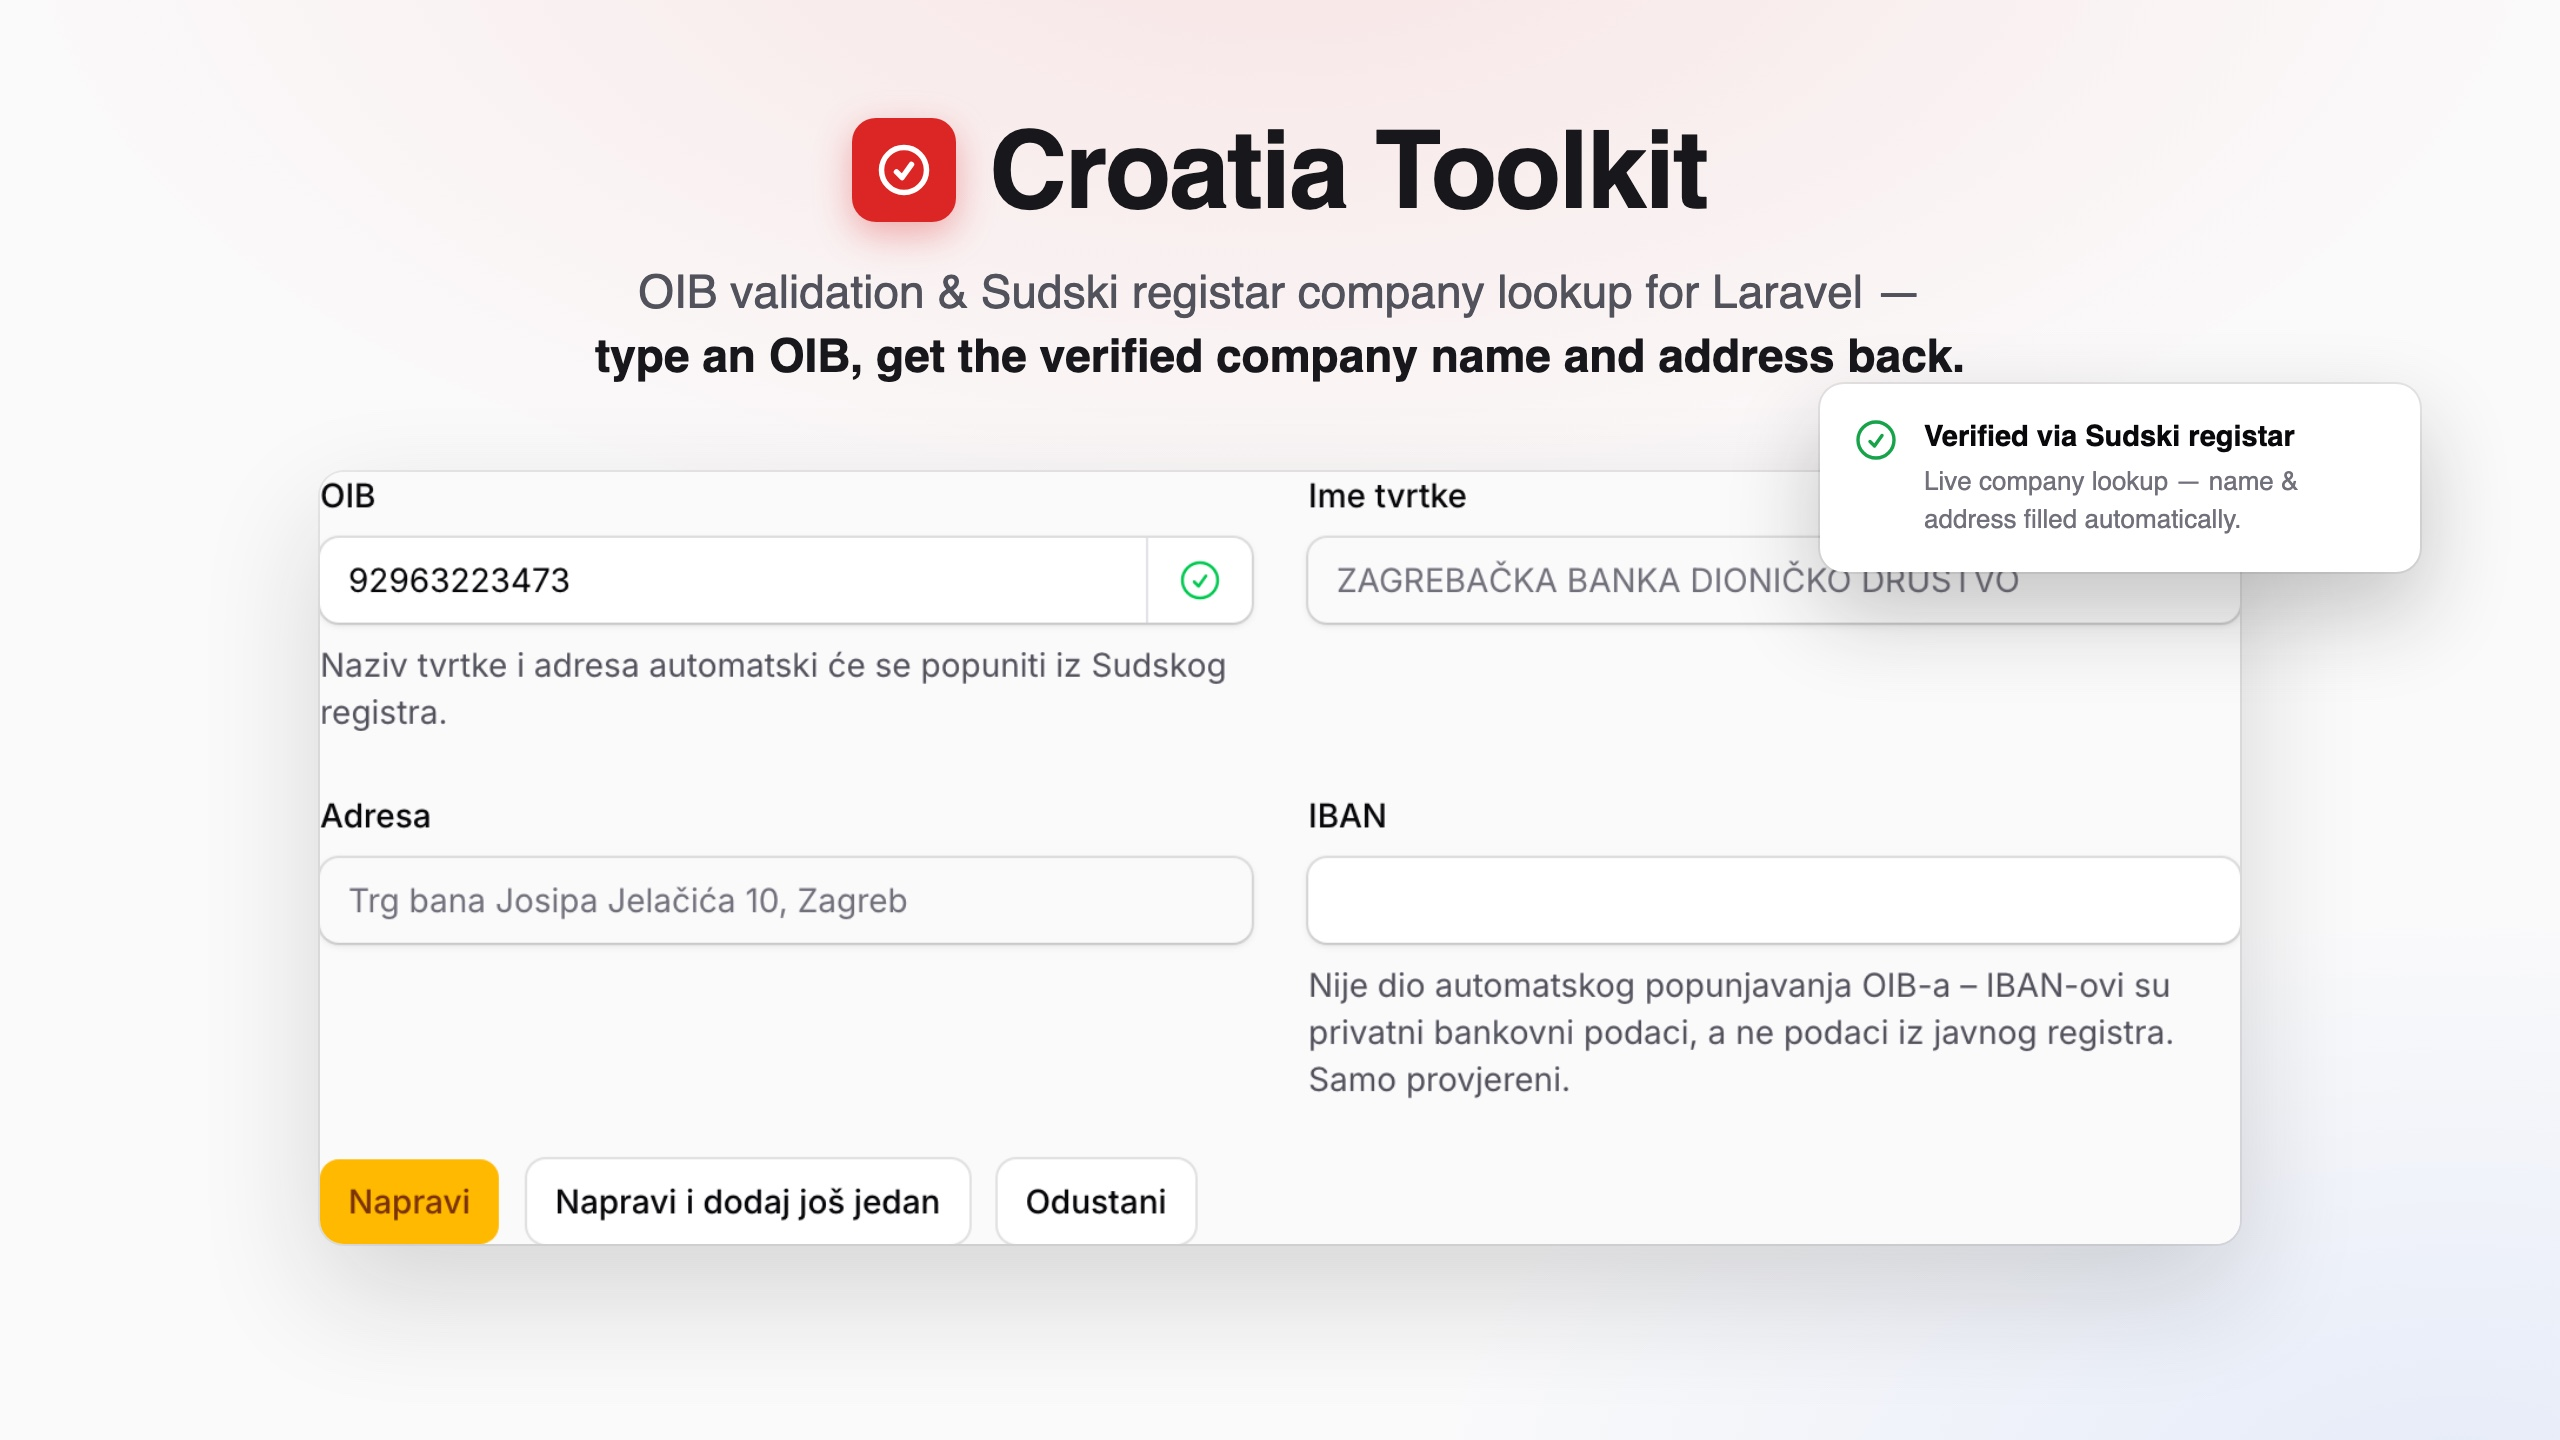
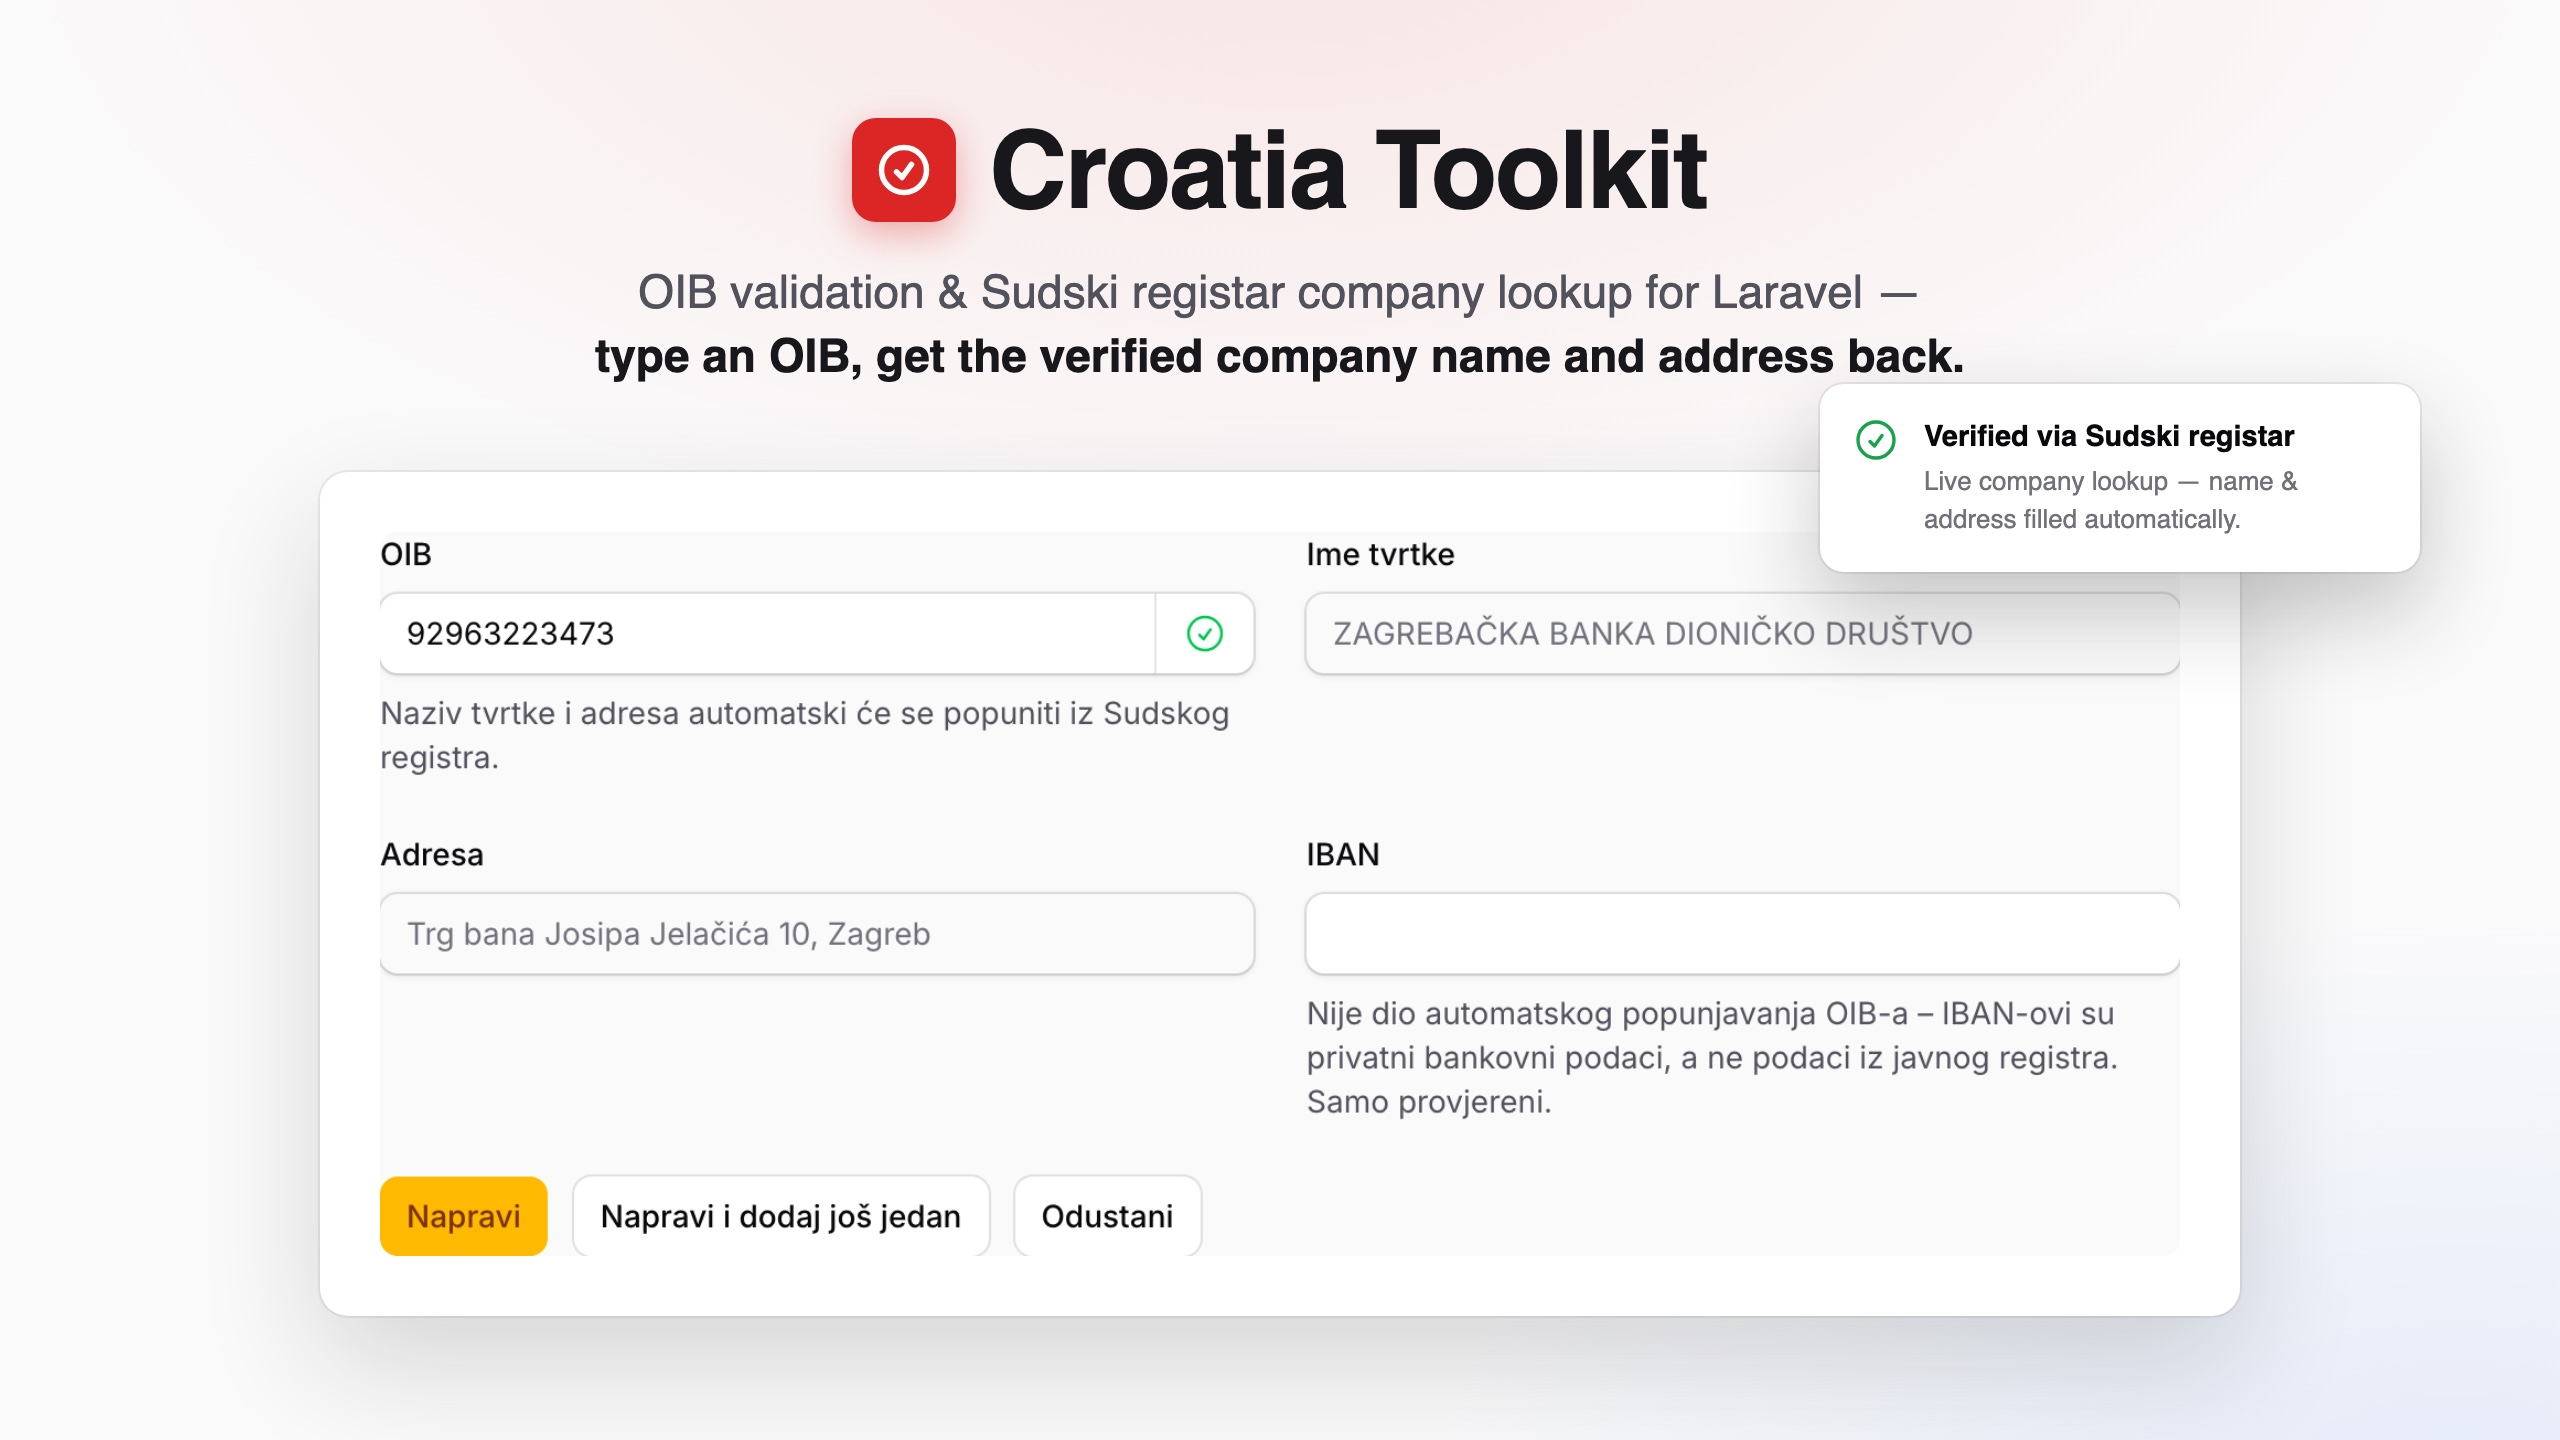
Fix listing image: add padding around the cropped screenshot
The .fi-page-content crop had zero margin, so fields/labels/buttons
sat flush against the card edges (Napravi button in the corner,
Ime tvrtke content clipped) -- looked unpolished, not like a real
product screenshot. Gave .shot 30px padding with a white background
instead of letting the image bleed edge-to-edge, so the Filament UI
now sits inset in a proper card mat.

diff --git a/docs/listing-src/listing-hero.html b/docs/listing-src/listing-hero.html
@@ -16,9 +16,10 @@ h1 { color: #18181b; font-size: 54px; letter-spacing: -1px; font-weight: 800; }
   text-align: center; max-width: 860px; line-height: 1.4; }
 .tag b { color: #18181b; font-weight: 600; }
 .wrap { position: relative; }
-.shot { width: 960px; border-radius: 12px; overflow: hidden; background: #fafafa;
+.shot { width: 960px; border-radius: 14px; overflow: hidden; background: #fff;
+  padding: 30px;
   box-shadow: 0 24px 60px rgba(24,24,27,0.16), 0 0 0 1px rgba(24,24,27,0.07); }
-.shot img { width: 100%; display: block; }
+.shot img { width: 100%; display: block; border-radius: 8px; }
 .badge { position: absolute; top: -44px; right: -90px; width: 300px;
   display: flex; gap: 12px; align-items: flex-start;
   background: #fff; border-radius: 12px; padding: 16px;
